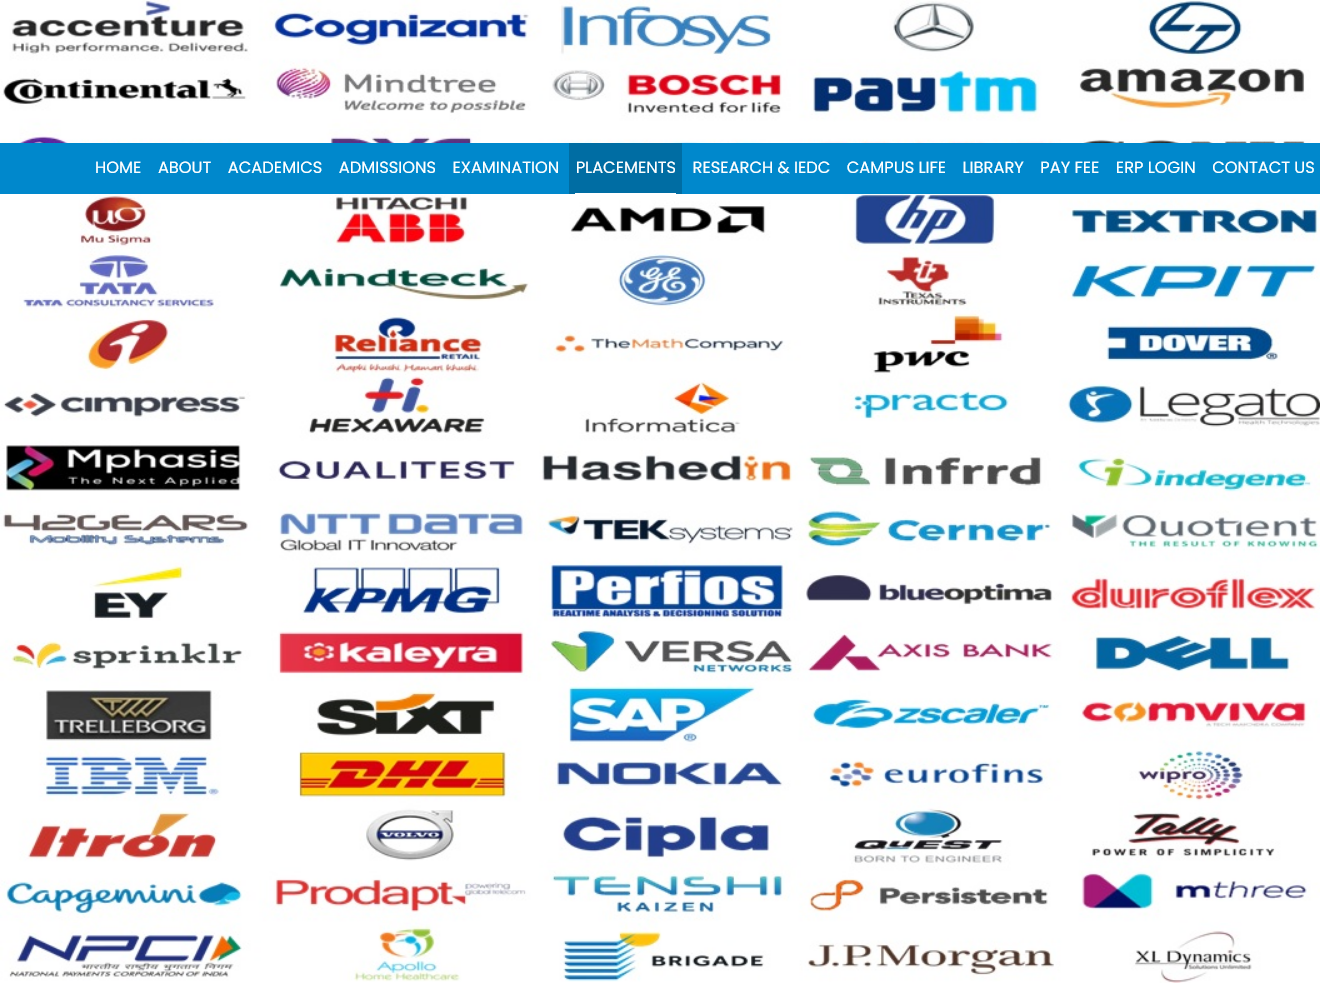
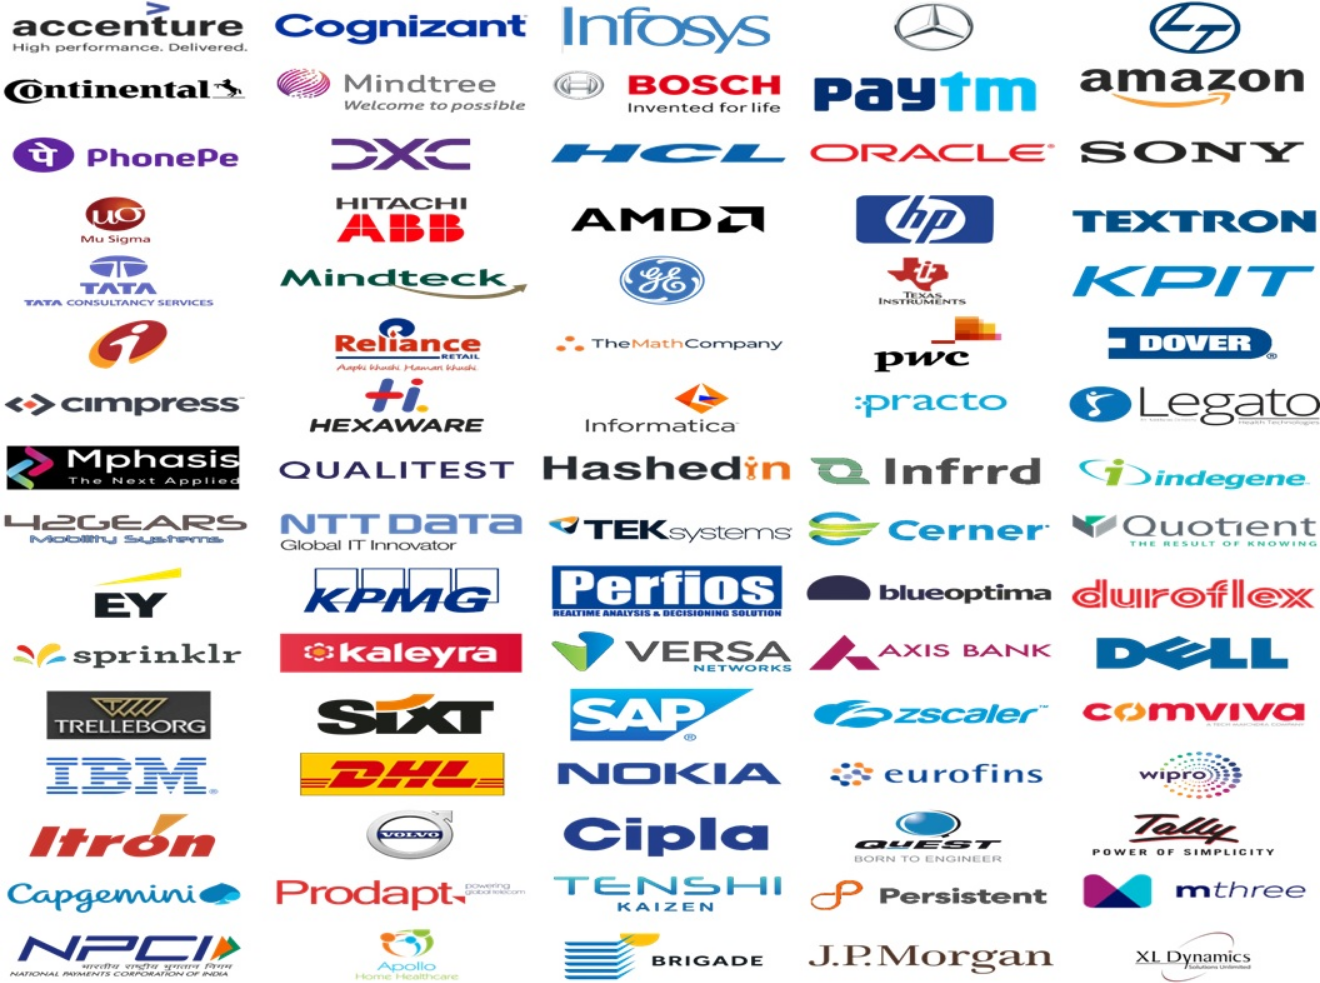
added prev year stats

Changed region(s): [[0.0, 0.1221, 1.0, 0.2136]]

diff --git a/client/src/components/CampusHiring.jsx b/client/src/components/CampusHiring.jsx
@@ -1,0 +1,29 @@
+import React from "react";
+import hiringImage from "../assets/images/bargraph.png";
+
+const CampusHiring = () => {
+  return (
+    <div className="container mx-auto my-8 px-4">
+      <h2 className="text-2xl font-bold mb-4 text-center">Campus Hiring</h2>
+      <div className="flex flex-row space-x-4">
+        <p className="p-10">
+          Dayananda Sagar College of Engineering has been working with many
+          Companies for more than three decades for Students Internships and
+          Placements. More than 100+ Companies have been visiting us every year
+          for Campus Placements. We have signed MOU with more than 30+ Companies
+          for helping students with projects Internships Industrial visits /
+          Research / Placements. We have been achieving record placements over
+          the years. The Placement Cell coordinates with recruiting companies
+          and handles the entire end to end placement process.
+        </p>
+        <img
+          src={hiringImage}
+          alt="Campus Hiring"
+          className="rounded-lg shadow-lg w-auto h-80 p-5"
+        />
+      </div>
+    </div>
+  );
+};
+
+export default CampusHiring;

diff --git a/client/src/App.jsx b/client/src/App.jsx
@@ -11,6 +11,7 @@ import StudentRegistration from "./pages/Component/StudentRegistration";
 import StudentLogin from "./pages/Component/StudentLogin";
 import AdminLogin from "./pages/Component/AdminLogin";
 import UpdateUserDetails from "./components/UpdateUserDetails";
+import Stats from "./pages/Stats";
 function App() {
   return (
     <Router>
@@ -26,6 +27,8 @@ function App() {
           <Route path="/Home" element={<Home />} />
           <Route path="/profile" element={<ProfilePage />} />
           <Route path="/UpdateUserDetails" element={<UpdateUserDetails/>} />
+          <Route path="/Stats" element={<Stats/>} />
+        
           {/* Add other routes here */}
         </Routes>
       </div>

diff --git a/client/src/pages/Stats.jsx b/client/src/pages/Stats.jsx
@@ -1,0 +1,22 @@
+import React from "react";
+import Sidebar from "../components/Sidebar";
+import CampusHiring from "../components/CampusHiring";
+import PlacementTestimonials from "../components/PlacementTestimonials";
+import CompanyLogos from "../components/CompanyLogos";
+
+function Stats() {
+  return (
+    <div className="App">
+      <div className="flex ">
+        <Sidebar />
+        <div className="flex flex-col">
+          <CampusHiring />
+          <PlacementTestimonials />
+          <CompanyLogos />
+        </div>
+      </div>
+    </div>
+  );
+}
+
+export default Stats;

diff --git a/client/src/components/Sidebar.jsx b/client/src/components/Sidebar.jsx
@@ -19,6 +19,12 @@ const Sidebar = () => {
           </Link>
         </li>
         <li>
+          <Link to="/Stats" className="flex items-center space-x-2 text-white hover:text-gray-300">
+            <span className="material-icons">PREVIOUS YEAR STATS</span>
+            
+          </Link>
+        </li>
+        <li>
           <Link to="/logout" className="flex items-center space-x-2 text-white hover:text-gray-300">
             <span className="material-icons">LOGOUT</span>
            

diff --git a/client/src/components/PlacementTestimonials.jsx b/client/src/components/PlacementTestimonials.jsx
@@ -1,0 +1,13 @@
+import React from 'react';
+import testimonialImage from '../assets/images/testimonial3.png';
+
+const PlacementTestimonials = () => {
+  return (
+    <div className="container mx-auto my-8 p-10">
+      <h2 className="text-2xl font-bold mb-4 flex w-full justify-center">Placement Testimonials</h2>
+      <img src={testimonialImage} alt="Placement Testimonials" className="rounded-lg shadow-lg" />
+    </div>
+  );
+};
+
+export default PlacementTestimonials;

diff --git a/client/src/components/CompanyLogos.jsx b/client/src/components/CompanyLogos.jsx
@@ -1,0 +1,13 @@
+import React from 'react';
+import logosImage from '../assets/images/company.png';
+
+const CompanyLogos = () => {
+  return (
+    <div className="container mx-auto my-8 p-10">
+      <h2 className="text-2xl font-bold mb-4 text-center">Companies</h2>
+      <img src={logosImage} alt="Company Logos" className="rounded-lg shadow-lg w-full h-140" />
+    </div>
+  );
+};
+
+export default CompanyLogos;
